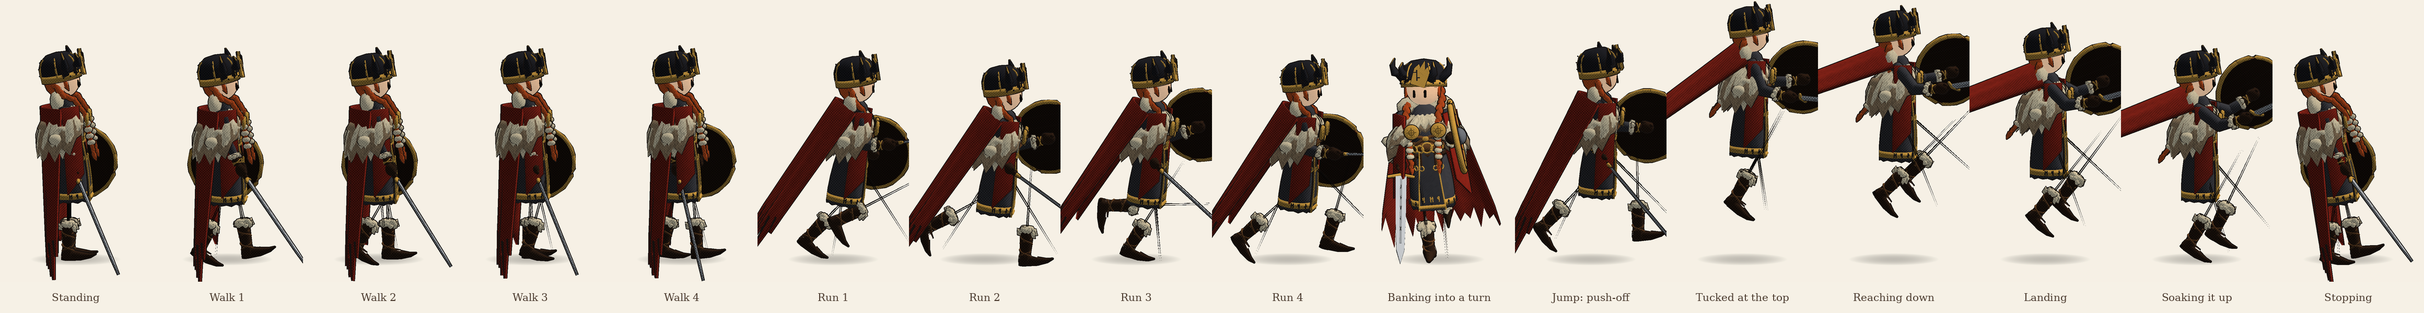
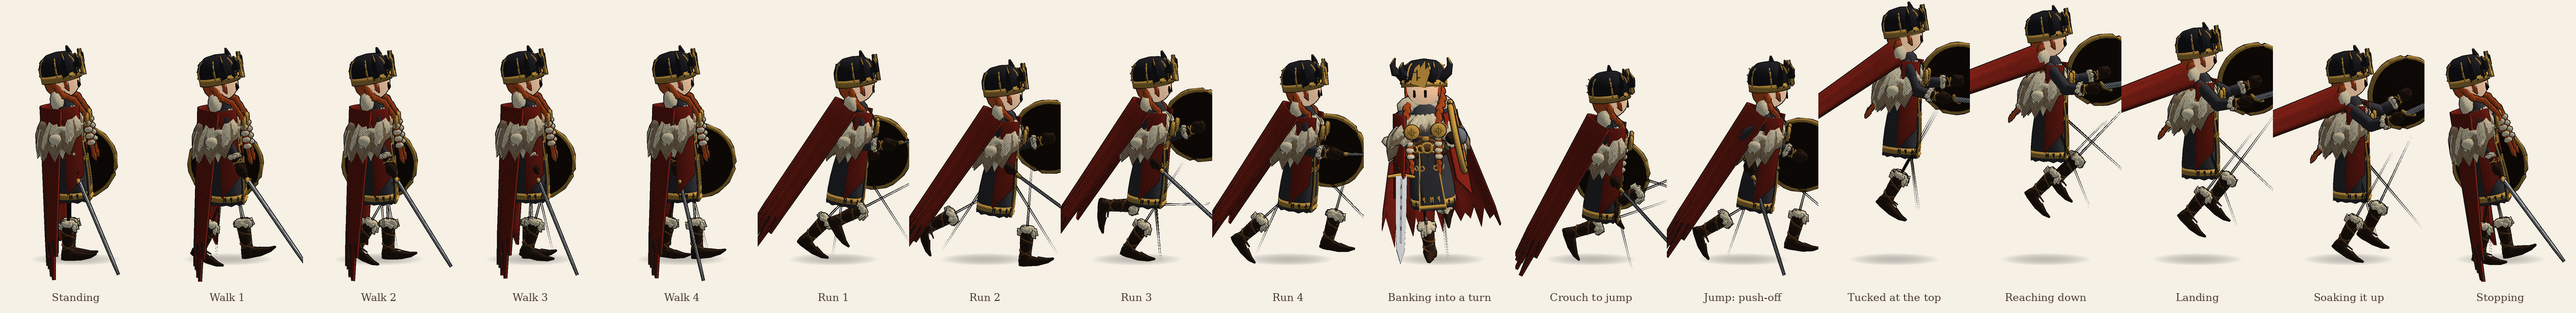
Jump anticipation: a tenth-of-a-second crouch, arms back, before the leap
Claude-Session: https://claude.ai/code/session_01SCdejJ1UF8RUxAkkFhZXGU

diff --git a/OdinsCoin/Assets/Scripts/Characters/HeroAnimator.cs b/OdinsCoin/Assets/Scripts/Characters/HeroAnimator.cs
@@ -49,6 +49,8 @@ namespace OdinsCoin
         }
 
         public Frame pose;
+        /// <summary>0..1 through the crouch before a jump (set by whoever jumps): knees bend, arms swing back.</summary>
+        public float crouch;
 
         readonly Damped bodyPitch = new Damped(), bodyRoll = new Damped(), bodyYaw = new Damped(), lift = new Damped();
         readonly Damped headPitch = new Damped(), headYaw = new Damped();
@@ -113,7 +115,9 @@ namespace OdinsCoin
             float aHipL = -6f * rising + 58f * tuck + 32f * falling, aKneeL = 6f * rising + 100f * tuck + 34f * falling;
             float aHipR = 12f * rising + 30f * tuck + 14f * falling, aKneeR = 30f * rising + 72f * tuck + 22f * falling;
             // Landing: both knees give and the hips fold, deeper the harder the fall.
-            float sHip = squash * 42f, sKnee = squash * 80f;
+            // (The crouch before a jump bends the same way, arms thrown back to swing up into the leap.)
+            float dip = Mathf.Sin(crouch * Mathf.PI * 0.5f);
+            float sHip = squash * 42f + dip * 45f, sKnee = squash * 80f + dip * 85f;
             if (swimming) { hipL = Mathf.Sin(time * 4f) * 25f; hipR = -hipL; kneeL = 20f + 15f * Mathf.Sin(time * 4f + 1f); kneeR = 20f - 15f * Mathf.Sin(time * 4f + 1f); }
             float wl = Mathf.Lerp(hipL, aHipL, air.value) + sHip, wr = Mathf.Lerp(hipR, aHipR, air.value) + sHip;
             float kl = Mathf.Lerp(kneeL, aKneeL, air.value) + sKnee, kr = Mathf.Lerp(kneeR, aKneeR, air.value) + sKnee;
@@ -135,8 +139,8 @@ namespace OdinsCoin
             // and out for balance in the air.
             float armSwing = -swing * Mathf.Lerp(0.8f, 1.3f, g);
             float airArm = Mathf.Lerp(-55f, -95f, falling);
-            float al = Mathf.Lerp(-armSwing, airArm, air.value) + squash * 10f;
-            float ar = Mathf.Lerp(armSwing, airArm * 0.8f, air.value) + squash * 10f;
+            float al = Mathf.Lerp(-armSwing, airArm, air.value) + squash * 10f + dip * 45f;
+            float ar = Mathf.Lerp(armSwing, airArm * 0.8f, air.value) + squash * 10f + dip * 45f;
             pose.leftArm = new Vector3(armL.Step(al, dt, 0.06f), 0f, 0f);
             pose.rightArm = new Vector3(armR.Step(ar, dt, 0.06f), 0f, 0f);
             float outward = armOut.Step(Mathf.Lerp(4f + 4f * g, 28f, air.value) + squash * 12f, dt, 0.08f);
@@ -150,7 +154,7 @@ namespace OdinsCoin
             // Body: leans into its speed (and harder while speeding up), banks into turns, twists a little
             // against the stride, bobs twice a stride, breathes when still, folds over a hard landing.
             float lean = swimming ? 60f : Mathf.Lerp(0f, 10f, g) + Mathf.Clamp(loco.acceleration * 1.1f, -7f, 9f)
-                         + (g < 0.05f ? HeroPose.Breath(time) : 0f) + squash * 16f - air.value * 4f;
+                         + (g < 0.05f ? HeroPose.Breath(time) : 0f) + squash * 16f + dip * 18f - air.value * 4f;
             float bank = -Mathf.Clamp(loco.turnRate * 0.05f * (0.3f + g), -12f, 12f)
                          // ...and the weight rolls over onto each foot in turn (most at a walk).
                          - Mathf.Sin(a) * Mathf.Lerp(3.5f, 1.5f, run) * reach;

diff --git a/OdinsCoin/Assets/Scripts/Player/Viking.cs b/OdinsCoin/Assets/Scripts/Player/Viking.cs
@@ -38,6 +38,9 @@ namespace OdinsCoin
         /// <summary>Speed, turning and footsteps: turning takes steps, speed builds up and dies down.</summary>
         readonly Locomotion loco = new Locomotion { sprintSpeed = RunSpeed };
         readonly HeroAnimator animator = new HeroAnimator();
+        /// <summary>How long the crouch before a jump lasts (s), and how much of it is left.</summary>
+        public const float JumpCrouch = 0.1f;
+        float jumpCrouch;
         bool locoStarted;
 
         /// <summary>The Viking's walking and turning, for animation.</summary>
@@ -176,7 +179,13 @@ namespace OdinsCoin
             else if (controller.isGrounded)
             {
                 verticalSpeed = -2f;
-                if (GameInput.Pressed(Key.Jump) && Carrying == null) verticalSpeed = JumpSpeed;
+                // A jump starts with a quick crouch (a tenth of a second) and springs off from it.
+                if (GameInput.Pressed(Key.Jump) && Carrying == null && jumpCrouch <= 0f) jumpCrouch = JumpCrouch;
+                if (jumpCrouch > 0f)
+                {
+                    jumpCrouch -= dt;
+                    if (jumpCrouch <= 0f) { jumpCrouch = 0f; verticalSpeed = JumpSpeed; }
+                }
             }
             else
             {
@@ -379,6 +388,7 @@ namespace OdinsCoin
             if (parts == null) return;
             // Walking, sprinting, turning, jumping and landing, all smoothed: see HeroAnimator.
             bool grounded = controller == null || !controller.enabled || controller.isGrounded || AtHelm;
+            animator.crouch = jumpCrouch > 0f ? 1f - jumpCrouch / JumpCrouch : 0f;
             animator.Step(dt, loco, grounded, verticalSpeed, Swimming, Time.time);
             animator.Apply(parts);
             bailAnim = Mathf.Max(0f, bailAnim - dt);

diff --git a/tools/preview/HeroPreview.cs b/tools/preview/HeroPreview.cs
@@ -261,9 +261,9 @@ public static class HeroPreview
         var springs = new Dictionary<string, SwingSpring>();
         foreach (var sw in model.Swings) springs[sw.joint] = SwingSpring.For(sw.kind);
         var frames = new List<Shot>();
-        var captures = new[] { 0.2f, 1.30f, 1.39f, 1.48f, 1.57f, 2.40f, 2.47f, 2.54f, 2.61f, 2.9f, 3.2f, 3.38f, 3.56f, 3.66f, 3.76f, 4.9f };
+        var captures = new[] { 0.2f, 1.30f, 1.39f, 1.48f, 1.57f, 2.40f, 2.47f, 2.54f, 2.61f, 2.9f, 3.14f, 3.2f, 3.38f, 3.56f, 3.66f, 3.76f, 4.9f };
         var names = new[] { "Standing", "Walk 1", "Walk 2", "Walk 3", "Walk 4", "Run 1", "Run 2", "Run 3", "Run 4", "Banking into a turn",
-            "Jump: push-off", "Tucked at the top", "Reaching down", "Landing", "Soaking it up", "Stopping" };
+            "Crouch to jump", "Jump: push-off", "Tucked at the top", "Reaching down", "Landing", "Soaking it up", "Stopping" };
         var loco = new Locomotion { sprintSpeed = 6.5f };
         loco.Reset(Vector2.zero, 0f);
         var anim = new HeroAnimator();
@@ -277,6 +277,8 @@ public static class HeroPreview
             if (t > 2.6f && t < 3.0f) wish = new Vector2(1f, 1f);
             // Walk frames are a real stroll (Ctrl), the run frames a sprint (Shift).
             float maxSpeed = t > 1.6f ? 6.5f : 1.7f;
+            // The crouch first (as in the game), then the leap.
+            anim.crouch = t >= 3.05f && t < 3.15f ? (t - 3.05f) / 0.1f : 0f;
             if (!jumped && t >= 3.15f) { jumped = true; vy = 5.5f; }
             bool grounded = y <= 0f && vy <= 0f;
             if (grounded) loco.Step(wish, maxSpeed, dt); else loco.Air(wish, dt);

diff --git a/tools/tests/LogicTests.cs b/tools/tests/LogicTests.cs
@@ -1153,6 +1153,13 @@ public static class LogicTests
         Check(bank < -2f, "the body banks into a turn (" + bank + ")");
         Check(look > 10f, "the head looks where it's going before the body gets there (" + look + ")");
 
+        // The crouch before a jump bends the knees and swings the arms back.
+        {
+            var cl = Walker(); var ca = new HeroAnimator(); float ct = 0f;
+            Animate(cl, ca, Vector2.zero, walk, 0.5f, true, 0f, ref ct);
+            for (int i = 0; i < 6; i++) { ca.crouch = i / 6f; Animate(cl, ca, Vector2.zero, walk, 1f / 60f, true, 0f, ref ct); }
+            Check(ca.pose.leftKnee > 35f && ca.pose.leftArm.x > 15f && ca.pose.lift < -0.03f, "crouching to jump bends the knees, drops the hips and swings the arms back");
+        }
         // A jump: tucked up in the air, a squash on landing, and never a jolt.
         l = Walker(); an = new HeroAnimator(); lastDelta = null;
         float jolt = Animate(l, an, new Vector2(0f, 1f), sprint, 1.5f, true, 0f, ref time);

diff --git a/OdinsCoin/CHARACTERS.md b/OdinsCoin/CHARACTERS.md
@@ -122,6 +122,7 @@ Alt bygges i kode (ingen modellfiler trengs). `tools/preview/render.sh` tegner e
   - [x] Forhåndsvisning: [docs/footsteps.png](docs/footsteps.png) viser fotsporene ovenfra i en sving når figuren går og når den sprinter, en U-sving i sprint og en snuing fra stillestående. [docs/motion.png](docs/motion.png) viser gange, sprint, hopp og landing, og [docs/attacks.png](docs/attacks.png) viser slagene.
   - [x] Knær og ekte gange: beina har kneledd, og alt fra kneet og ned (legg, støvler, buksebein) bøyer seg med det. Hofte og kne følger målte gangkurver for mennesker. For gange er de etter Winters normaldata, med 60 % av skrittet på bakken. For løping har foten 38 % bakketid og bøyer kneet til over 100° i svingfasen. Gange glir over i løping med farten. Kroppen hviler på det lengste beinet, så den bølger av seg selv og synker ned i en landing. I hoppet strekkes beina i satsen, trekkes opp på toppen og strekkes mot bakken i fallet, og knærne svikter ved landing.
   - [x] Føttene står stille på bakken: lårets sving skaleres slik at foten som står nede blir der mens kroppen går over den, både i gange og løp. En test måler at foten sklir lite. Spillets gange (4,2 m/s) er egentlig et raskt jogg, så løpesteget kommer tidlig inn.
+  - [x] Sats før hoppet: et kort kne-bøy på en tiendedels sekund, med armene svingt bakover, før figuren spretter opp.
   - [x] Rolig gange: hold Ctrl for å gå sakte med ekte gangsteg. Vanlig fart er et raskt jogg, og Shift gir sprint. Løpesteget er kortet litt ned, så bakbeinet ikke strekker seg lenger bak enn en ekte løper.
   - [x] Ankler: foten under ankelen bøyer seg for seg selv. Den ruller fra hæl til tå etter målte ankelkurver, strekker tærne i avsparket og i lufta, og bøyer dem opp for å ta imot landingen.
   - [x] Flere slag per våpen (kombinasjoner): trykker du angrep igjen mens et slag pågår, går det rett over i neste. Øks: hogg ovenfra, skrått hugg og bredt feie-slag. Sverd: hugg, bakhåndshugg og utfall. Spyd: stikk, overhåndsstikk og feiing med skaftet. Stav: slag ovenfra, feiing og støt. Bue: full spenning og kjapt skudd. Uten våpen: jab, kryss og uppercut. Det siste slaget i rekken slår hardest.
